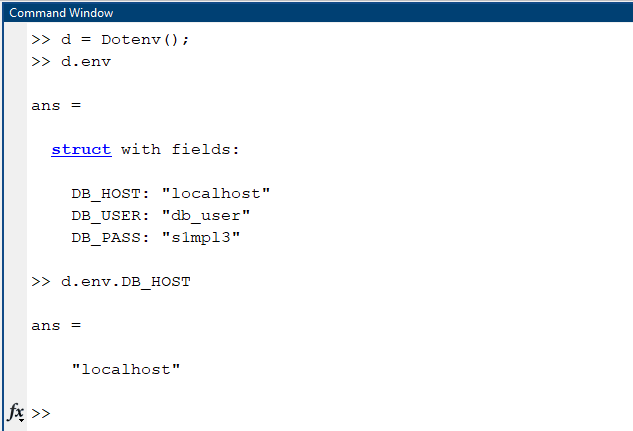
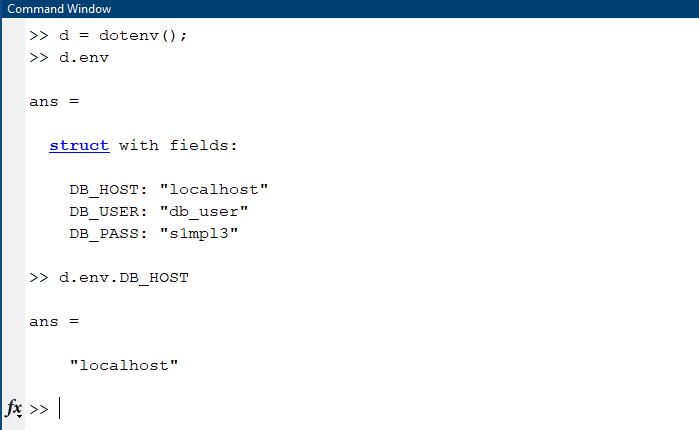
Fixed class case name Naming convention indicates that files on global namespace should be lowercase.

diff --git a/tests/rulesTest.m b/tests/rulesTest.m
@@ -9,57 +9,57 @@ end
 function testTopComment(testCase)
 % Tests that lines starting with # are skipped
 % specifically tests first line comment
-d = Dotenv('../config/topcomment.env');
+d = dotenv('../config/topcomment.env');
 assert(numel(fieldnames(d.env)) == 3);
 end
 
 function testMiddleComment(testCase)
 % Tests that lines starting with # are skipped
 % specifically tests interior comment
-d = Dotenv('../config/middlecomment.env');
+d = dotenv('../config/middlecomment.env');
 assert(numel(fieldnames(d.env)) == 3);
 end
 
 function testBottomComment(testCase)
 % Tests that lines starting with # are skipped
 % specifically tests last line comment
-d = Dotenv('../config/bottomcomment.env');
+d = dotenv('../config/bottomcomment.env');
 assert(numel(fieldnames(d.env)) == 3);
 end
 
 function testBlankLines(testCase)
-d = Dotenv('../config/blanklines.env');
+d = dotenv('../config/blanklines.env');
 assert(numel(fieldnames(d.env)) == 4);
 end
 
 function testEqualsInPassword(testCase)
-d = Dotenv('../config/equalPassword.env');
+d = dotenv('../config/equalPassword.env');
 assert("s1mpl3=123" == d.env.DB_PASS);
 end
 
 function testWhitespaceValue(testCase)
-d = Dotenv('../config/whitespace.env');
+d = dotenv('../config/whitespace.env');
 assert("localhost server" == d.env.DB_HOST);
 end
 
 function testEmptyValue(testCase)
-d = Dotenv('../config/empty.env');
+d = dotenv('../config/empty.env');
 assert("" == d.env.DB_HOST);
 end
 
 function testUnquotedWhitespace(testCase)
 % D.configure should trim leading and trailing whitespace for whitespace values
-d = Dotenv('../config/whitespace.env');
+d = dotenv('../config/whitespace.env');
 assert("george" == d.env.DB_USER);
 end
 
 function testQuotedValues(testCase)
-d = Dotenv('../config/whitespace.env');
+d = dotenv('../config/whitespace.env');
 assert('" mypass "' == d.env.DB_PASS);
 end
 
 function testSingleValue(testCase)
-d = Dotenv('../config/single.env');
+d = dotenv('../config/single.env');
 assert("localhost" == d.env.DB_HOST);
 end
 

diff --git a/dotenv.m b/dotenv.m
@@ -1,7 +1,6 @@
-
-classdef Dotenv
+classdef dotenv
     % Dotenv Implementation of common dotenv pattern 
-    % Dotenv allows you to load environment variables at runtime without 
+    % dotenv allows you to load environment variables at runtime without 
     % committing your .env file to source control. A common reason for 
     % doing this is that you need a password or API key but don't want to 
     % embed that in your code or in source control. 
@@ -18,8 +17,8 @@ classdef Dotenv
     
     
     methods
-        function obj = Dotenv(location)
-            % d = Dotenv([path/to/file.env]) -- load .env file from current working directory or specified via path.
+        function obj = dotenv(location)
+            % d = dotenv([path/to/file.env]) -- load .env file from current working directory or specified via path.
             obj.env = struct;
             switch nargin
                 case 1 % if there is an argument load that file

diff --git a/tests/fileTest.m b/tests/fileTest.m
@@ -6,7 +6,7 @@ end
 
 function testFileNotFound(testCase)
 try
-    d = Dotenv('config/dotenv'); % dosen't exist
+    d = dotenv('config/dotenv'); % dosen't exist
 catch ME
     assert(string(ME.identifier) == 'DOTENV:CannotOpenFile');
 end
@@ -14,12 +14,12 @@ end
 
 function testDefaultLocation(testCase)
 %% Opens default ./.env file
-d = Dotenv();
+d = dotenv();
 assert(d.env.DB_HOST == "localhost");
 end
 
 function testNamedLocation(testCase)
 %% Opens nested .env file
-d = Dotenv('../config/.env');
+d = dotenv('../config/.env');
 assert(d.env.DB_HOST == "localhost");
 end

diff --git a/tests/valueRetrieveTest.m b/tests/valueRetrieveTest.m
@@ -6,14 +6,12 @@ end
 
 
 function testValidData(testCase)
-d = Dotenv();
-d.configure();
+d = dotenv();
 assert(d.env.DB_HOST == "localhost");
 end
 
 
 function testInvalidName(testCase)
-d = Dotenv();
-d.configure();
+d = dotenv();
 assert(d.env.DB_HOSED == ""); % doesn't exist
 end
